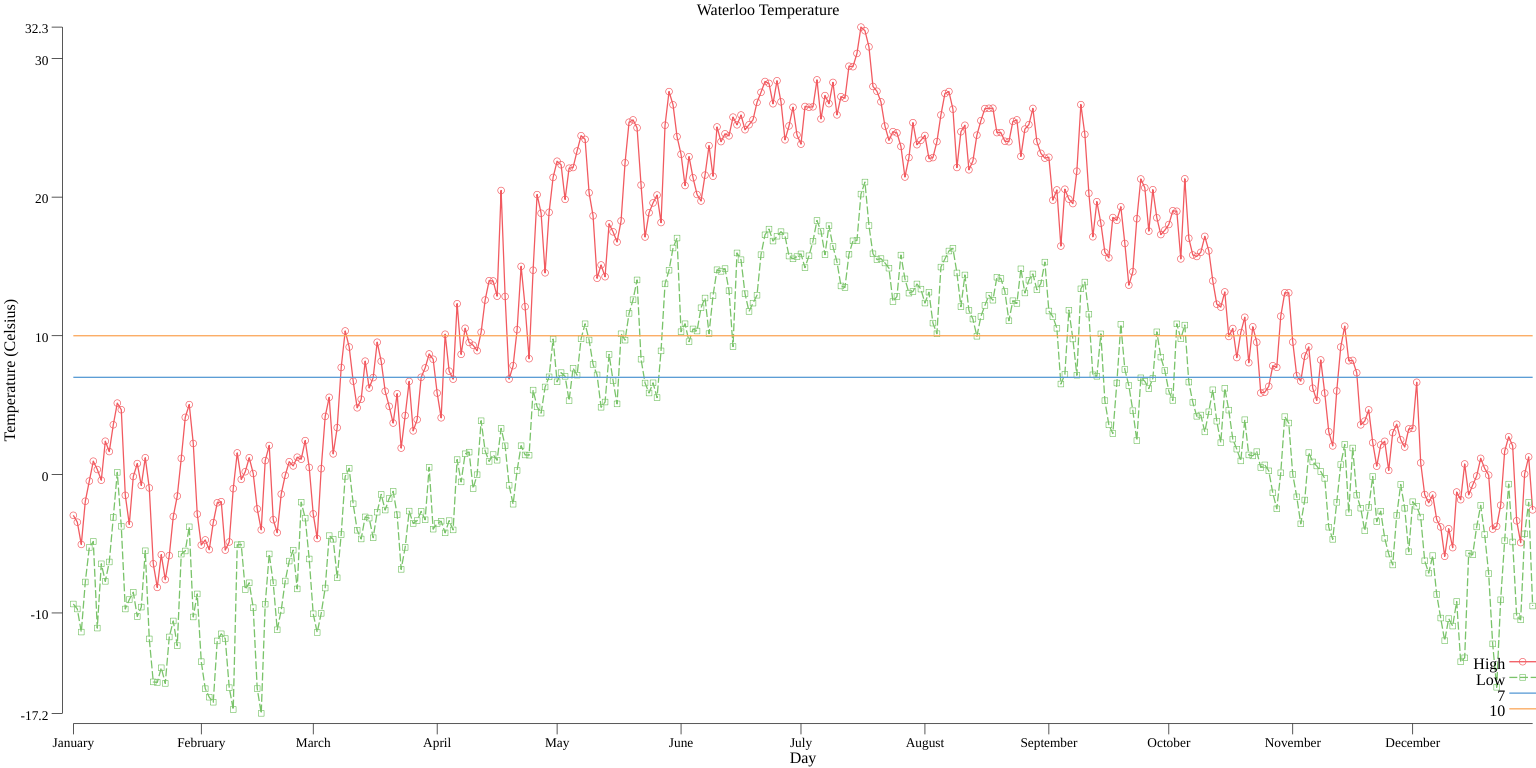
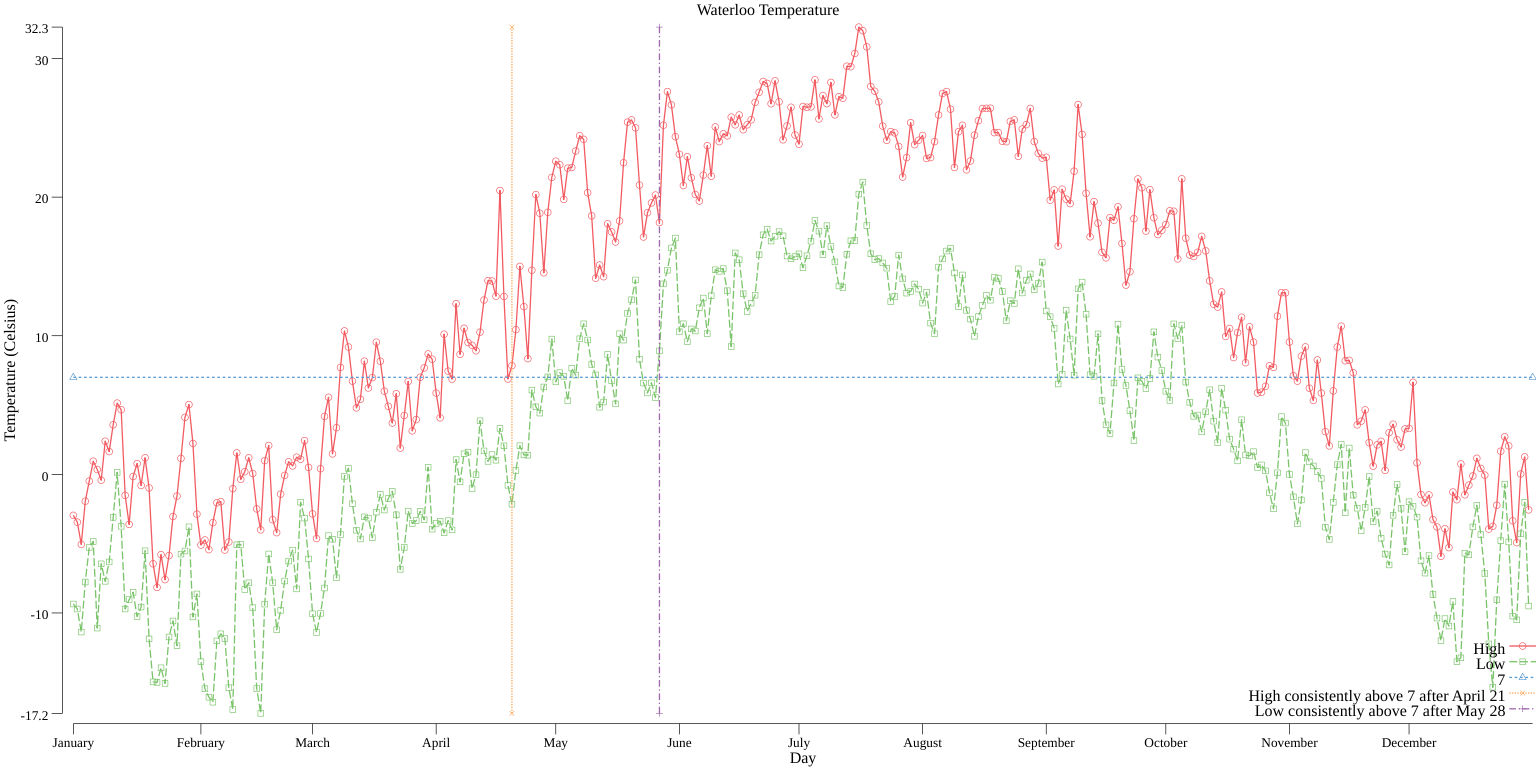
Plot when the high/low is consistently above 7

diff --git a/cmd/PlotAverageTemperature/PlotAverageTemperature.go b/cmd/PlotAverageTemperature/PlotAverageTemperature.go
@@ -4,6 +4,7 @@ import (
 	"encoding/csv"
 	"fmt"
 	"os"
+	"sort"
 	"strconv"
 	"strings"
 	"time"
@@ -15,9 +16,10 @@ import (
 )
 
 const (
-	PlotFile   = "weather.png"
-	PlotWidth  = 16*vg.Inch
-	PlotHeight = 8*vg.Inch
+	PlotFile    = "weather.png"
+	PlotWidth   = 16*vg.Inch
+	PlotHeight  = 8*vg.Inch
+	DaysInAYear = 366
 )
 
 type DailyTemp struct {
@@ -214,8 +216,10 @@ func main() {
 			}
 		}
 	}
-	yearlyHighs := make(plotter.XYs, 366)
-	yearlyLows := make(plotter.XYs, 366)
+
+	// Compute the averages
+	yearlyHighs := make(plotter.XYs, DaysInAYear)
+	yearlyLows := make(plotter.XYs, DaysInAYear)
 	for _, yearlyTemps := range dailyTemps {
 		for j, dailyTemp := range yearlyTemps {
 			if yearlyHighs[j].X == 0 {
@@ -236,6 +240,62 @@ func main() {
 		}
 	}
 
+	// Find the longest string of days during which the high/low is at least 7
+	type DayCount struct {
+		Day int
+		Count int
+	}
+	LowAboveCounts := []DayCount{}
+	LowCurrentCount := DayCount{
+		Day: -1,
+	}
+	HighAboveCounts := []DayCount{}
+	HighCurrentCount := DayCount{
+		Day: -1,
+	}
+	maxTemp := -999.0
+	minTemp := 999.0
+	for i := 0; i < DaysInAYear; i++ {
+		if yearlyHighs[i].Y > maxTemp {
+			maxTemp = yearlyHighs[i].Y
+		}
+		if yearlyLows[i].Y < minTemp {
+			minTemp = yearlyLows[i].Y
+		}
+		if yearlyHighs[i].Y >= 7.0 {
+			if HighCurrentCount.Day == -1 {
+				HighCurrentCount = DayCount{
+					Day: i,
+					Count: 0,
+				}
+			}
+			HighCurrentCount.Count++
+		} else if HighCurrentCount.Day > -1 {
+			HighAboveCounts = append(HighAboveCounts, HighCurrentCount)
+			HighCurrentCount.Day = -1
+		}
+		if yearlyLows[i].Y >= 7.0 {
+			if LowCurrentCount.Day == -1 {
+				LowCurrentCount = DayCount{
+					Day: i,
+					Count: 0,
+				}
+			}
+			LowCurrentCount.Count++
+		} else if LowCurrentCount.Day > -1 {
+			LowAboveCounts = append(LowAboveCounts, LowCurrentCount)
+			LowCurrentCount.Day = -1
+		}
+	}
+	sort.Slice(HighAboveCounts, func(i, j int) bool {
+		return HighAboveCounts[i].Count > HighAboveCounts[j].Count
+	})
+	sort.Slice(LowAboveCounts, func(i, j int) bool {
+		return LowAboveCounts[i].Count > LowAboveCounts[j].Count
+	})
+	firstHighDay := ParseYearDay("2019", HighAboveCounts[0].Day)
+	firstLowDay := ParseYearDay("2019", LowAboveCounts[0].Day)
+
 	// Plot
 	{
 		p, err := plot.New()
@@ -250,20 +310,37 @@ func main() {
 		check(plotutil.AddLinePoints(p,
 			"High", yearlyHighs,
 			"Low", yearlyLows,
+			"7", plotter.XYs{
+				plotter.XY{
+					X: 0.0,
+					Y: 7.0,
+				},
+				plotter.XY{
+					X: 366.0,
+					Y: 7.0,
+				},
+			},
+			fmt.Sprintf("High consistently above 7 after %s %d", firstHighDay.Month().String(), firstHighDay.Day()), plotter.XYs{
+				plotter.XY{
+					X: float64(HighAboveCounts[0].Day),
+					Y: minTemp,
+				},
+				plotter.XY{
+					X: float64(HighAboveCounts[0].Day),
+					Y: maxTemp,
+				},
+			},
+			fmt.Sprintf("Low consistently above 7 after %s %d", firstLowDay.Month().String(), firstLowDay.Day()), plotter.XYs{
+				plotter.XY{
+					X: float64(LowAboveCounts[0].Day),
+					Y: minTemp,
+				},
+				plotter.XY{
+					X: float64(LowAboveCounts[0].Day),
+					Y: maxTemp,
+				},
+			},
 		))
-		// Add a horizontal lines to demarcate 7 & 10 degrees
-		for i, v := range []int{7, 10} {
-			points := make(plotter.XYs, 366)
-			for j := 0; j < 366; j++ {
-				points[j].X = float64(j)
-				points[j].Y = float64(v)
-			}
-			l, err := plotter.NewLine(points)
-			check(err)
-			l.LineStyle.Color = plotutil.SoftColors[i + 2]
-			p.Add(l)
-			p.Legend.Add(strconv.Itoa(v), l)
-		}
 		check(p.Save(PlotWidth, PlotHeight, PlotFile))
 	}
 }
